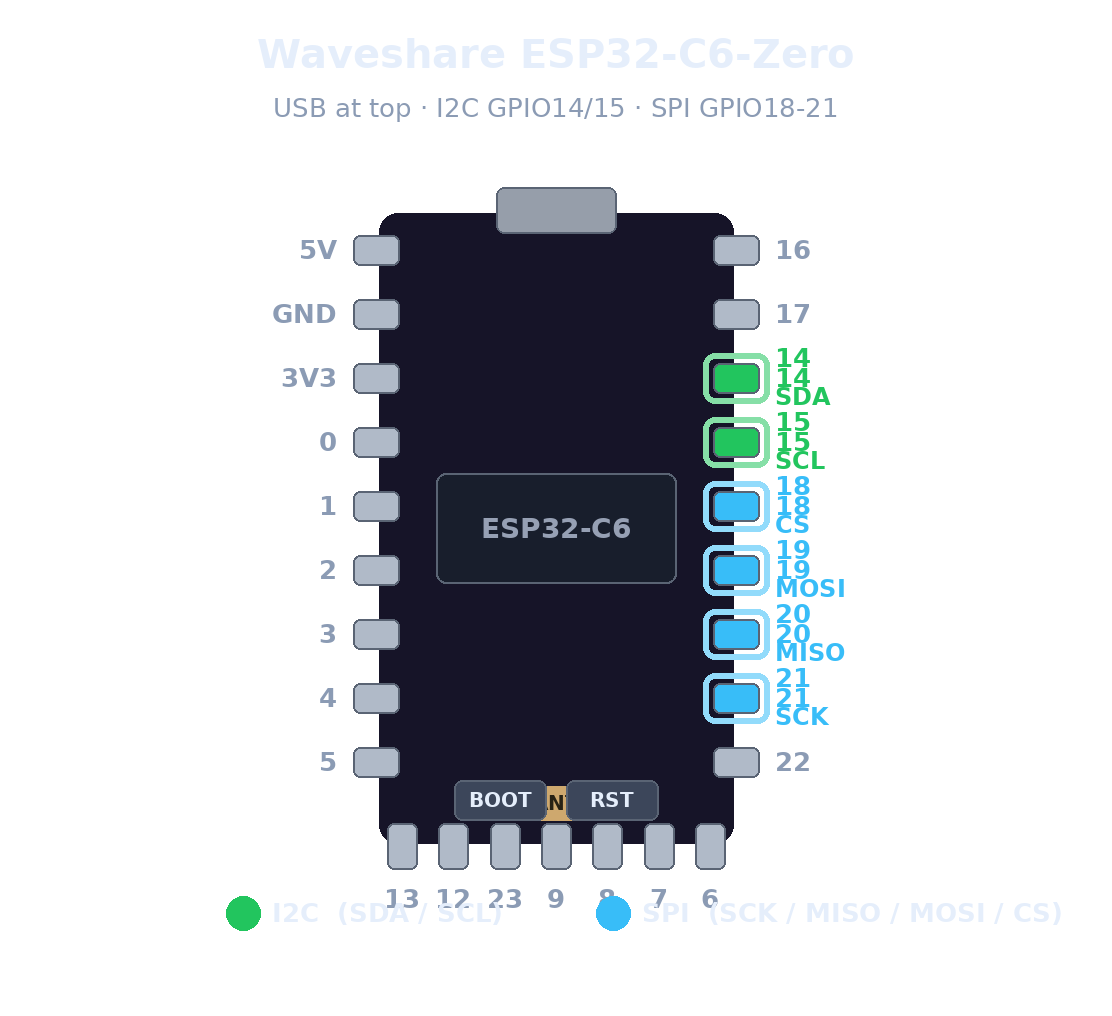
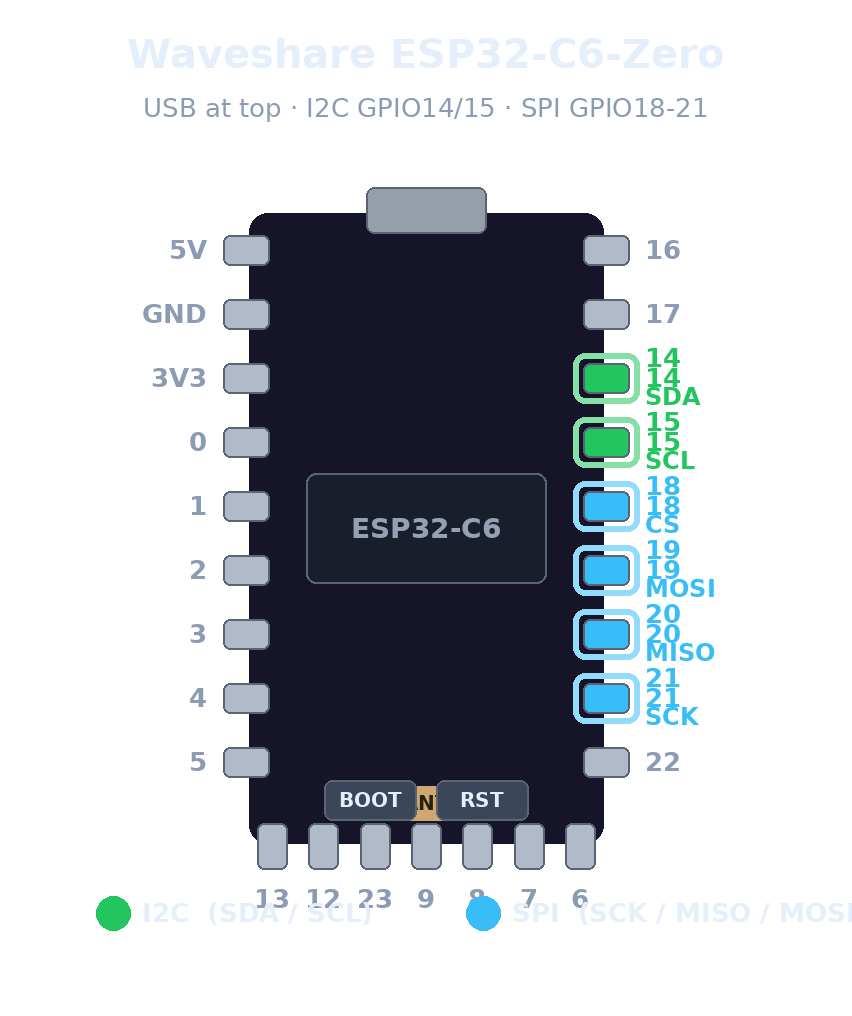
Board tab: compact 2-column layout, deduplicate connection pins
- Left column now stacks: board status, I2C summary, SPI summary, wiring
  notes, board picker. Right column is the pinout diagram spanning the full
  height of the stack — the whole tab fits in one screen height.
- Removed the duplicated pin-row lists from the I2C/SPI cards (the diagram
  next to them already shows every highlighted pin; cards now carry a single
  compact 'SDA GP4 (pin 6) · SCL GP5 (pin 7)' line each).
- Diagram images regenerated with tighter side margins (~170px) so the board
  itself uses more of the card; display size fits both the column width
  (620px) and the stack height (660px), whichever binds.

diff --git a/gui.py b/gui.py
@@ -76,6 +76,8 @@ _PIN_LABELS = {
     "mosi": "MOSI (board writes)",
     "cs": "CS (chip select)",
 }
+# kept for backwards compatibility with saved UI-state code paths; the Board
+# tab now uses compact summary lines instead of per-pin rows.
 
 
 class Application(ctk.CTk):
@@ -503,99 +505,112 @@ class Application(ctk.CTk):
         tab = self.tab_board
         from cd3217_analyzer.boards import BOARDS, get_board_info
 
-        # ── connected board card ────────────────────────────────────────────
-        card = ctk.CTkFrame(tab, fg_color=C["card"], corner_radius=12)
-        card.pack(fill="x", padx=12, pady=12)
+        # ── layout: left column (stacked cards) + right column (diagram) ──
+        body = ctk.CTkFrame(tab, fg_color="transparent")
+        body.pack(fill="both", expand=True, padx=12, pady=12)
+        body.grid_columnconfigure(0, weight=0, minsize=330)
+        body.grid_columnconfigure(1, weight=1)
+        body.grid_rowconfigure(0, weight=1)
+
+        left = ctk.CTkFrame(body, fg_color="transparent")
+        left.grid(row=0, column=0, sticky="nsew", padx=(0, 8))
+
+        # ── connected board card (top of the stack) ────────────────────────
+        card = ctk.CTkFrame(left, fg_color=C["card"], corner_radius=12)
+        card.pack(fill="x")
         inner = ctk.CTkFrame(card, fg_color="transparent")
-        inner.pack(fill="x", padx=18, pady=16)
+        inner.pack(fill="x", padx=14, pady=12)
 
         self.board_status_dot = ctk.CTkLabel(
-            inner, text="●", font=F["score"], text_color=C["dim"], width=30)
-        self.board_status_dot.pack(side="left", padx=(0, 14))
+            inner, text="●", font=F["heading"], text_color=C["dim"], width=22)
+        self.board_status_dot.pack(side="left", padx=(0, 10))
 
         vbox = ctk.CTkFrame(inner, fg_color="transparent")
         vbox.pack(side="left", fill="x", expand=True)
         self.board_name_label = ctk.CTkLabel(
-            vbox, text="No board connected", font=F["heading"])
+            vbox, text="No board connected", font=F["heading"],
+            wraplength=260)
         self.board_name_label.pack(anchor="w")
         self.board_sub_label = ctk.CTkLabel(
             vbox, text="Connect via USB Bridge (board) to see its pinout, "
                        "or pick a board below.",
-            text_color=C["dim"], font=F["body"], justify="left", wraplength=640)
+            text_color=C["dim"], font=F["body"], justify="left",
+            wraplength=270)
         self.board_sub_label.pack(anchor="w", pady=(2, 0))
 
-        # ── pinout cards ───────────────────────────────────────────────────
-        grid = ctk.CTkFrame(tab, fg_color="transparent")
-        grid.pack(fill="x", padx=12, pady=(0, 6))
-        grid.grid_columnconfigure((0, 1), weight=1)
+        # ── I2C / SPI summary cards (single compact line each — the diagram
+        #    next to them is the visual pin reference, so no pin-row lists) ─
+        self.i2c_card = ctk.CTkFrame(left, fg_color=C["card"], corner_radius=12)
+        self.i2c_card.pack(fill="x", pady=(8, 0))
+        self._build_pin_summary(
+            self.i2c_card, "I2C — CD3217", C["green"],
+            [("SDA", "sda"), ("SCL", "scl")])
 
-        self.i2c_card = ctk.CTkFrame(grid, fg_color=C["card"], corner_radius=12)
-        self.i2c_card.grid(row=0, column=0, sticky="nsew", padx=(0, 6))
-        self.spi_card = ctk.CTkFrame(grid, fg_color=C["card"], corner_radius=12)
-        self.spi_card.grid(row=0, column=1, sticky="nsew", padx=(6, 0))
+        self.spi_card = ctk.CTkFrame(left, fg_color=C["card"], corner_radius=12)
+        self.spi_card.pack(fill="x", pady=(8, 0))
+        self._build_pin_summary(
+            self.spi_card, "SPI — flash (via level shifter)", C["accent"],
+            [("SCK", "sck"), ("MISO", "miso"), ("MOSI", "mosi"),
+             ("CS", "cs")])
 
-        self._build_pin_card(
-            self.i2c_card, "I2C — connect to the CD3217",
-            [("SDA (data)", "sda"), ("SCL (clock)", "scl")])
-        self._build_pin_card(
-            self.spi_card, "SPI — flash chip (via level shifter)",
-            [("SCK (clock)", "sck"), ("MISO (board reads)", "miso"),
-             ("MOSI (board writes)", "mosi"), ("CS (chip select)", "cs")])
-
-        # ── pinout diagram ──────────────────────────────────────────────────
-        diag_card = ctk.CTkFrame(tab, fg_color=C["card"], corner_radius=12)
-        diag_card.pack(fill="x", padx=12, pady=6)
+        # ── pinout diagram (right column, spans the full height of the stack)
+        diag_card = ctk.CTkFrame(body, fg_color=C["card"], corner_radius=12)
+        diag_card.grid(row=0, column=1, sticky="nsew")
+        diag_card.grid_rowconfigure(1, weight=1)
+        diag_card.grid_columnconfigure(0, weight=1)
         ctk.CTkLabel(
             diag_card, text="Board pinout — connect the highlighted pins",
             font=F["heading"], text_color=C["accent"]
-        ).pack(anchor="w", padx=18, pady=(14, 2))
+        ).grid(row=0, column=0, sticky="w", padx=18, pady=(14, 2))
         self.board_diagram_label = ctk.CTkLabel(diag_card, text="")
-        self.board_diagram_label.pack(padx=18, pady=(4, 16))
+        self.board_diagram_label.grid(row=1, column=0, sticky="nsew",
+                                      padx=18, pady=(4, 16))
         self._board_diagram_img = None   # keep a reference (GC safety)
 
         # ── wiring notes ───────────────────────────────────────────────────
-        notes_card = ctk.CTkFrame(tab, fg_color=C["card"], corner_radius=12)
-        notes_card.pack(fill="x", padx=12, pady=6)
+        notes_card = ctk.CTkFrame(left, fg_color=C["card"], corner_radius=12)
+        notes_card.pack(fill="x", pady=(8, 0))
         self.board_notes_label = ctk.CTkLabel(
             notes_card, text="", font=F["small"], text_color=C["dim"],
-            justify="left", wraplength=700)
-        self.board_notes_label.pack(anchor="w", padx=18, pady=12)
+            justify="left", wraplength=300)
+        self.board_notes_label.pack(anchor="w", padx=14, pady=12)
         self._board_notes_frame = notes_card
 
         # ── board picker (works without a board connected) ─────────────────
-        picker_card = ctk.CTkFrame(tab, fg_color=C["card"], corner_radius=12)
-        picker_card.pack(fill="x", padx=12, pady=6)
+        picker_card = ctk.CTkFrame(left, fg_color=C["card"], corner_radius=12)
+        picker_card.pack(fill="x", pady=(8, 0))
         box = ctk.CTkFrame(picker_card, fg_color="transparent")
-        box.pack(fill="x", padx=18, pady=12)
+        box.pack(fill="x", padx=14, pady=12)
         ctk.CTkLabel(box, text="Browse a board's pinout:",
                      font=F["body"], text_color=C["dim"]).pack(side="left")
         self.board_picker_var = ctk.StringVar(value="")
         picker = ctk.CTkOptionMenu(
             box, variable=self.board_picker_var, values=[""] + sorted(
                 b.name for b in BOARDS.values()),
-            command=self._on_board_picked, width=260,
+            command=self._on_board_picked, width=170,
             fg_color=C["entry"], button_color=C["btn"],
             button_hover_color=C["btn_hover"], text_color=C["text"],
             dropdown_fg_color=C["panel"])
-        picker.pack(side="left", padx=12)
+        picker.pack(side="left", padx=(8, 0))
 
         # initialize with the empty state
         self._show_board_info(None)
 
-    def _build_pin_card(self, parent, title, roles):
-        ctk.CTkLabel(
-            parent, text=title, font=F["heading"],
-            text_color=C["accent"]).pack(anchor="w", padx=18, pady=(14, 4))
+    def _build_pin_summary(self, parent, title, color, roles):
+        """Compact card: title + one 'SDA GP4 · SCL GP5' style line."""
+        head = ctk.CTkFrame(parent, fg_color="transparent")
+        head.pack(fill="x", padx=14, pady=(10, 2))
+        ctk.CTkLabel(head, text=title, font=F["small"], text_color=C["dim"]
+                     ).pack(side="left")
+        line = ctk.CTkLabel(
+            parent, text="—", font=F["mono"], text_color=color,
+            wraplength=290, justify="left")
+        line.pack(anchor="w", padx=14, pady=(0, 10))
+        setattr(self, f"_pin_line_{roles[0][1] if len(roles) <= 2 else 'spi'}",
+                line)
+        # keep per-role label refs for compatibility (all point to the line)
         for _, key in roles:
-            row = ctk.CTkFrame(parent, fg_color="transparent")
-            row.pack(fill="x", padx=18, pady=3)
-            ctk.CTkLabel(row, text=_PIN_LABELS[key], font=F["body"],
-                         text_color=C["dim"], width=150, anchor="w"
-                         ).pack(side="left")
-            lbl = ctk.CTkLabel(row, text="—", font=F["mono"],
-                               text_color=C["text"])
-            lbl.pack(side="left")
-            setattr(self, f"_pin_lbl_{key}", lbl)
+            setattr(self, f"_pin_lbl_{key}", line)
 
     def _on_board_picked(self, name):
         from cd3217_analyzer.boards import BOARDS
@@ -627,8 +642,12 @@ class Application(ctk.CTk):
             return
         try:
             img = Image.open(path)
-            disp_w = 640
-            disp_h = int(img.height * disp_w / img.width)
+            # Fit into the right column: cap both width and height so tall
+            # boards (Pico) use the full stack height, wide ones the width.
+            max_w, max_h = 620, 660
+            scale = min(max_w / img.width, max_h / img.height)
+            disp_w = max(1, int(img.width * scale))
+            disp_h = max(1, int(img.height * scale))
             self._board_diagram_img = ctk.CTkImage(
                 light_image=img, dark_image=img, size=(disp_w, disp_h))
             self.board_diagram_label.configure(
@@ -647,8 +666,8 @@ class Application(ctk.CTk):
             self.board_sub_label.configure(
                 text="Connect via USB Bridge (board) to see the live pinout, "
                      "or pick a board above.")
-            for key in _PIN_LABELS:
-                getattr(self, f"_pin_lbl_{key}").configure(text="—")
+            self._pin_line_sda.configure(text="—")
+            self._pin_line_spi.configure(text="—")
             self.board_notes_label.configure(
                 text="Wiring basics: I2C needs SDA+SCL (+2.2kΩ pull-ups to "
                      "3.3V, GND). SPI flash needs SCK/MISO/MOSI/CS + GND, "
@@ -660,17 +679,16 @@ class Application(ctk.CTk):
         self.board_notes_label.configure(text="\n".join(
             f"•  {n}" for n in board.notes))
         self.board_sub_label.configure(text=(
-            f"{board.family} family  ·  {board.i2c_label} on dedicated pins  "
-            f"·  {board.spi_label} on "
-            f"{'SPI1' if board.hw == 1 else 'its SPI peripheral'}"))
-        for role, key in (("sda", "sda"), ("scl", "scl")):
-            v = board.i2c.get(role)
-            getattr(self, f"_pin_lbl_{key}").configure(
-                text=v[1] if v else "—")
-        for key in ("sck", "miso", "mosi", "cs"):
-            v = board.spi.get(key)
-            getattr(self, f"_pin_lbl_{key}").configure(
-                text=v[1] if v else "—")
+            f"{board.family}  ·  {'SPI1' if board.hw == 1 else 'hw SPI'}"))
+        i2c_txt = " · ".join(
+            f"{tag.upper()} {board.i2c[k][1]}" if k in board.i2c else ""
+            for tag, k in (("sda", "sda"), ("scl", "scl")))
+        self._pin_line_sda.configure(text=i2c_txt or "—")
+        spi_txt = " · ".join(
+            f"{tag} {board.spi[k][1]}" if k in board.spi else ""
+            for tag, k in (("sck", "sck"), ("miso", "miso"),
+                           ("mosi", "mosi"), ("cs", "cs")))
+        self._pin_line_spi.configure(text=spi_txt or "—")
 
     def _refresh_board_tab_live(self):
         """Update the Board tab from the connected board's INFO frame."""

diff --git a/tools/gen_board_diagrams.py b/tools/gen_board_diagrams.py
@@ -200,7 +200,7 @@ BOARDS = [
 
 # ─── drawing ─────────────────────────────────────────────────────────────────
 PAD_W, PAD_H = 46, 30          # pad size (side pads: w x h)
-LABEL_MARGIN = 300             # room for labels on each side
+LABEL_MARGIN = 170             # room for labels on each side
 HEADER_H = 170
 FOOTER_H = 150
 
